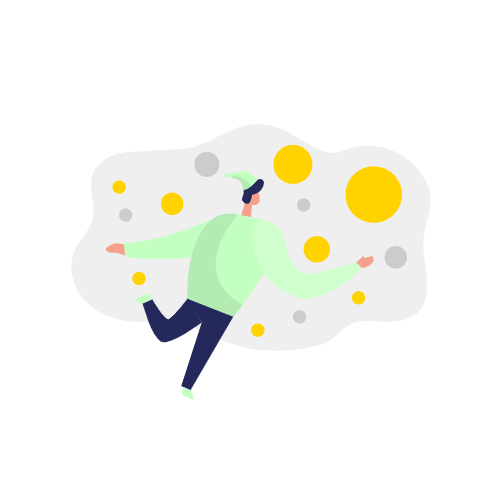
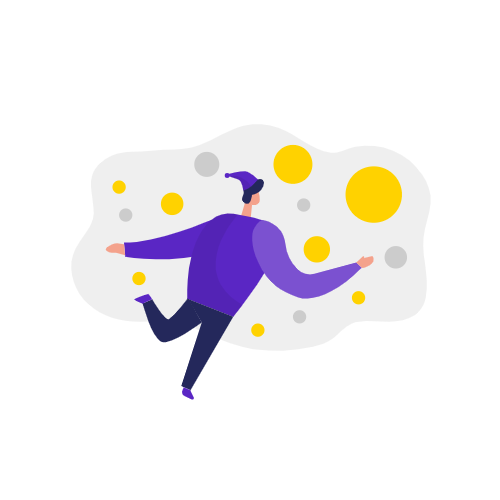
Estilizações finais no site institucional

diff --git a/site/public/css/style.css b/site/public/css/style.css
@@ -21,7 +21,6 @@ body::-webkit-scrollbar-thumb {
   background:url("./../assets/img/inicio/night.jpg") no-repeat;
   background-size: cover;
   height: 100vh;
-  width: 100vw;
 
 }
 
@@ -76,15 +75,14 @@ body::-webkit-scrollbar-thumb {
 
 .slogan{
   display:flex;
-  font-weight: bold;
+  font-weight: 200;
   text-align: center;
   font-size: 54px;
   width: 40%;
   color: #ffffff;
   font-family: 'Playfair Display', serif;
-  font-weight: 400;
   position: relative;
-  top: 22%;
+  top: 2%;
   text-shadow: 
                -1px -1px 0px #3561a0, 
                -1px 1px 0px #3561a0,                    
@@ -149,9 +147,8 @@ body::-webkit-scrollbar-thumb {
 
 
 .footer{
-  border-top: 1px #252831 solid;
-  background-color: #f7f3f3;
-  color:#252831;
+  background-color: #0b051b;
+  color:#ffffff;
   height: 80px;
   display:flex;
   justify-content: center;
@@ -189,7 +186,7 @@ body::-webkit-scrollbar-thumb {
 
 #cardErroEmail, #cardErroSenha, #cardErroNome, #cardErroConfirmacaoSenha, #cardErroGenero{
   display: none;
-  font-size: 14px;
+  font-size: 10px;
   color:red;
 
 }
@@ -199,14 +196,16 @@ body::-webkit-scrollbar-thumb {
   display:flex;
   align-items:center;
   flex-direction:column;
-  background-color: #ffffff;
+  background-color: #0b051b;
   opacity: 0.9;
   border-radius:5px;
-  color: #252831;
+  color: #ffffff;
+  height: 50%;
   width:40%;
   box-shadow: #2528314b 8px 5px;
   position:absolute;
   bottom: 30%;
+  
 }
 
 .input{
@@ -218,6 +217,7 @@ body::-webkit-scrollbar-thumb {
 }
 .input form{
   width:100%;
+  margin-bottom: 10%;
 }
 .input form input{
   width:100%;
@@ -225,30 +225,43 @@ body::-webkit-scrollbar-thumb {
   align-items:center;
   flex-direction:column;
   justify-content:center;
-  border-radius: 20px;
   height:30px;
   margin-top:1%;
   margin-bottom:2%;
   outline: none;
-  border: 4px solid #B9E2FF;
   text-align: center;
-  background-color: #FFFFFF;
+  border: 0 none;
+  border-bottom: 1px solid white;
+  background-color:transparent;
+  color: white;
+  box-shadow: none;
+}
+placeholder{
+  font-family:'Playfair Display', serif; 
+  font-weight: 200;
 }
 .container2-login{
-  background-color: #d9e3f0;
-  height: 200px;
+  background-color: #0b051b;
+  height: 50px;
 }
+
+
 button{
   height:40px;
   width:140px;
   margin-top:1%;
   margin-bottom: 3%;
   border-radius:20px;
-  background-color: #C3FFC1;
-  color: #252831;
+  background-color: #2e1570;
+  color: #ffffff;
   font-weight: bold;
   font-size:16px;
   border:0;
+}
+
+button:hover{
+  background-color: #ffffff;
+  color: #2e1570;
 }
 /*CADASTRO*/
 .cadastro{
@@ -256,10 +269,10 @@ button{
   align-items:center;
   justify-content: center;
   flex-direction:column;
-  background-color: #ffffff;
-  opacity: 0.9;
+  background-color: #0b051b;
+  opacity: 0.8;
   border-radius:5px;
-  color: #252831;
+  color: #ffffff;
   height:80%;
   width:40%;
   position: absolute;
@@ -267,20 +280,8 @@ button{
   box-shadow: #2528314b 8px 5px;
 }
 
-.cadastro button{
-  height:40px;
-  width:140px;
-  margin-top:1%;
-  border-radius:20px;
-  background-color: #C3FFC1;
-  color: #252831;
-  font-weight: bold;
-  font-size:16px;
-  border:0;
-}
-
 #genero_select{
-  width:460px;
+  width: 99%;
   display:flex;
   align-items:center;
   justify-content:center;
@@ -289,9 +290,11 @@ button{
   margin-top:1%;
   margin-bottom:20px;
   outline: none;
-  border: 4px solid #B9E2FF;
+  border:0 none;
+  border-bottom: 1 solid #2e1570;
   text-align: center;
-  background-color: #FFFFFF;
+  color: #ffffff;
+  background: transparent;
 }
 
 .loading-div {

diff --git a/site/public/cadastro.html b/site/public/cadastro.html
@@ -5,7 +5,7 @@
     <meta charset="UTF-8">
     <meta http-equiv="X-UA-Compatible" content="IE=edge">
     <meta name="viewport" content="width=device-width, initial-scale=1.0">
-    <title>BedTime | Cadastro</title>
+    <title>Cadastro</title>
     <link rel="stylesheet" href="./css/style.css">
     <link rel="preconnect" href="https://fonts.googleapis.com">
     <link rel="preconnect" href="https://fonts.gstatic.com" crossorigin>
@@ -19,7 +19,7 @@
 <body>
     <div class="corpo">
         <div class="navbar">
-            <span>B</span>
+            <span>BedTime</span>
         </div>
         <div class="container1">
             <div class="alerta_erro">
@@ -28,24 +28,20 @@
                 </div>
             </div>
             <div class="cadastro">
-                <h1>Cadastro</h1>
+                <h1 style="font-family: 'Playfair Display', serif; font-weight: 200;">Cadastro</h1>
                 <div class="input">
                     <form action="">
-                        <label for="input_nome">Nome</label>
                         <br>
-                        <input type="text" id="nome_input">
+                        <input type="text" id="nome_input" placeholder="Insira seu nome">
                         <span id="cardErroNome"></span>
-                        <label for="email_input">Email</label>
                         <br>
-                        <input type="text" id="email_input">
+                        <input type="text" id="email_input"  placeholder="Insira um email">
                         <span id="cardErroEmail"></span>
-                        <label for="senha_input">Senha</label>
                         <br>
-                        <input type="password" id="senha_input">
+                        <input type="password" id="senha_input"  placeholder="Insira sua senha">
                         <span id="cardErroSenha"></span>
-                        <label for="confirmacao_senha_input">Senha</label>
                         <br>
-                        <input id="confirmacao_senha_input" type="password">
+                        <input id="confirmacao_senha_input" type="password"  placeholder="Confirme sua senha">
                         <span id="cardErroConfirmacaoSenha"></span>
                         <label for="genero_select">Gênero</label>
                         <br>
@@ -69,6 +65,7 @@
         </div>
         <div class="navegacao">
             <a href="./index.html" class="flutuar">Inicio</a>
+            <a href="./index.html#info1" class="flutuar">Visão</a>
             <a href="./login.html" class="flutuar">Entrar</a>
             <a href="./cadastro.html" class="flutuar">Cadastro</a>
         </div>

diff --git a/site/public/login.html b/site/public/login.html
@@ -5,7 +5,7 @@
     <meta charset="UTF-8">
     <meta http-equiv="X-UA-Compatible" content="IE=edge">
     <meta name="viewport" content="width=device-width, initial-scale=1.0">
-    <title>BedTime | Login</title>
+    <title>Login</title>
     <link rel="stylesheet" href="./css/style.css">
     <link rel="preconnect" href="https://fonts.googleapis.com">
     <link rel="preconnect" href="https://fonts.gstatic.com" crossorigin>
@@ -19,20 +19,18 @@
 <body>
     <div class="corpo">
         <div class="navbar">
-            <span>B</span>
+            <span>BedTime</span>
         </div>
         <div class="container1">
             <div class="login">
-                <h1>Bem vindo!</h1>
+                <h1 style="font-family: 'Playfair Display', serif; font-weight: 200;">Bem vindo!</h1>
                 <div class="input">
                     <form action="">
-                        <label for="email_input">Email</label>
                         <br>
-                        <input type="text" id="email_input">
+                        <input type="text" id="email_input" placeholder="Digite seu mail">
                         <span id="cardErroEmail"></span>
-                        <label for="senha_input">Senha</label>
                         <br>
-                        <input type="password" id="senha_input">
+                        <input type="password" id="senha_input" placeholder="Digite sua senha">
                         <span id="cardErroSenha"></span>
                     </form>
                 </div>
@@ -46,6 +44,7 @@
             </div>
             <div class="navegacao">
                 <a href="./index.html" class="flutuar">Inicio</a>
+                <a href="./index.html#info1" class="flutuar">Visão</a>
                 <a href="./login.html" class="flutuar">Entrar</a>
                 <a href="./cadastro.html" class="flutuar">Cadastro</a>
             </div>
